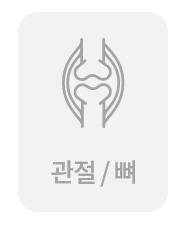
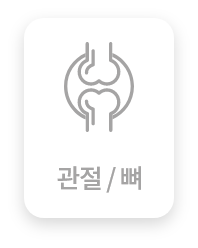
[EDIT] Change Card Image and add result page conditional code

diff --git a/frontend/src/Service/NutrientFit/PaymentPage.js b/frontend/src/Service/NutrientFit/PaymentPage.js
@@ -106,17 +106,19 @@ const PaymentPage = ({
   };
   console.log("yayayayayayayayayay", final_order_list);
   const theme = useTheme();
-  Object.keys(final_order_list).map((cate) =>
-    Object.keys(final_order_list[cate]).map((item) => {
-      //여기는 구성성분 합쳐주는 곳이다
-      final_order_list[cate][item].composition.split(",").map((item) => {
-        const tmp = item.substring(0, item.indexOf("%")).trim().split(" ");
-        total_composition[tmp[0]] =
-          total_composition[tmp[0]] +
-          Math.round(parseFloat(tmp[1]) * 100) / 100;
-      });
-    })
-  );
+  if (final_order_list !== null) {
+    Object.keys(final_order_list).map((cate) =>
+      Object.keys(final_order_list[cate]).map((item) => {
+        //여기는 구성성분 합쳐주는 곳이다
+        final_order_list[cate][item].composition.split(",").map((item) => {
+          const tmp = item.substring(0, item.indexOf("%")).trim().split(" ");
+          total_composition[tmp[0]] =
+            total_composition[tmp[0]] +
+            Math.round(parseFloat(tmp[1]) * 100) / 100;
+        });
+      })
+    );
+  }
   let total_weight = 0;
   if (final_order_list !== null) {
     Object.keys(final_order_list).map((item) =>
